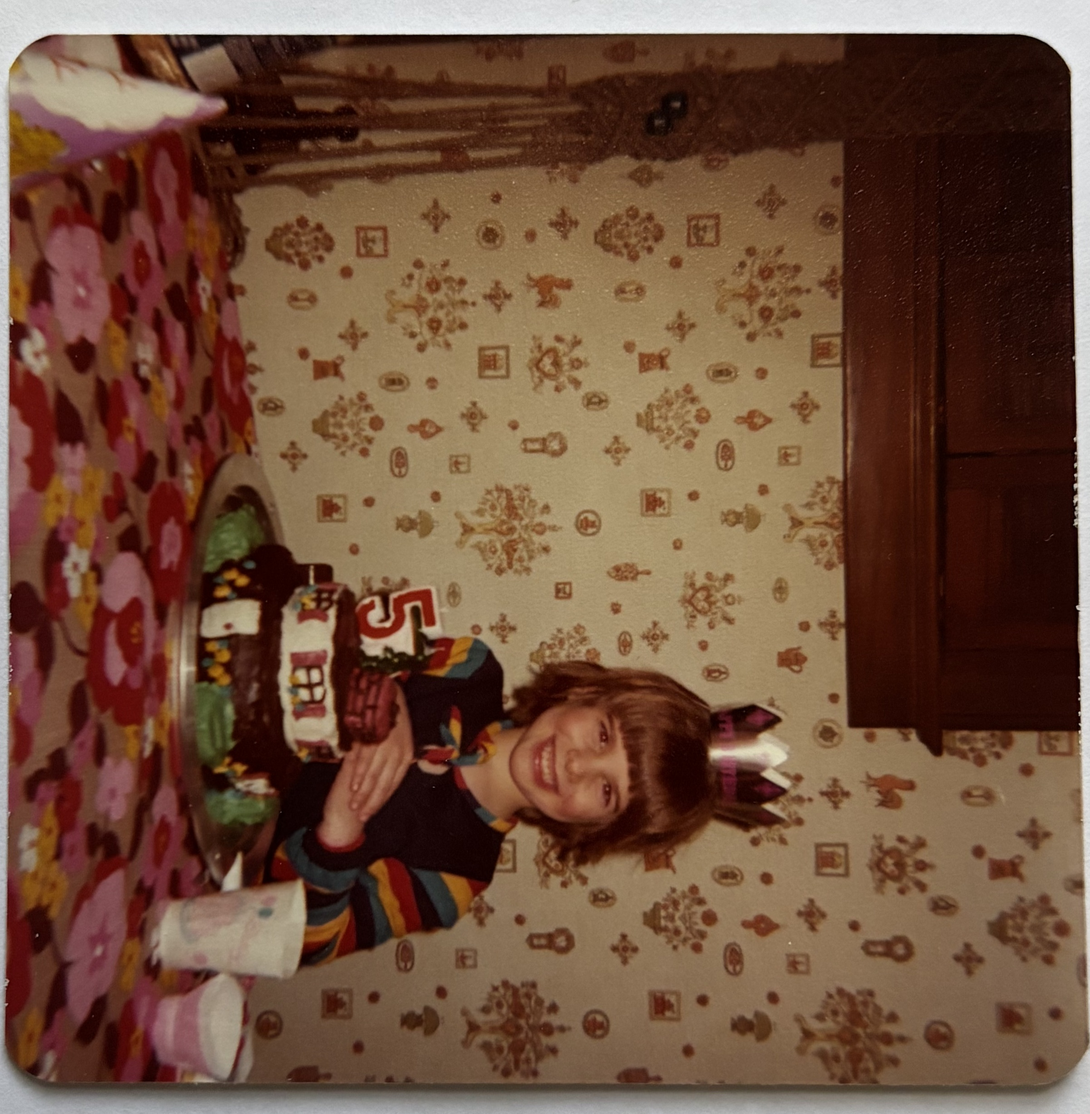
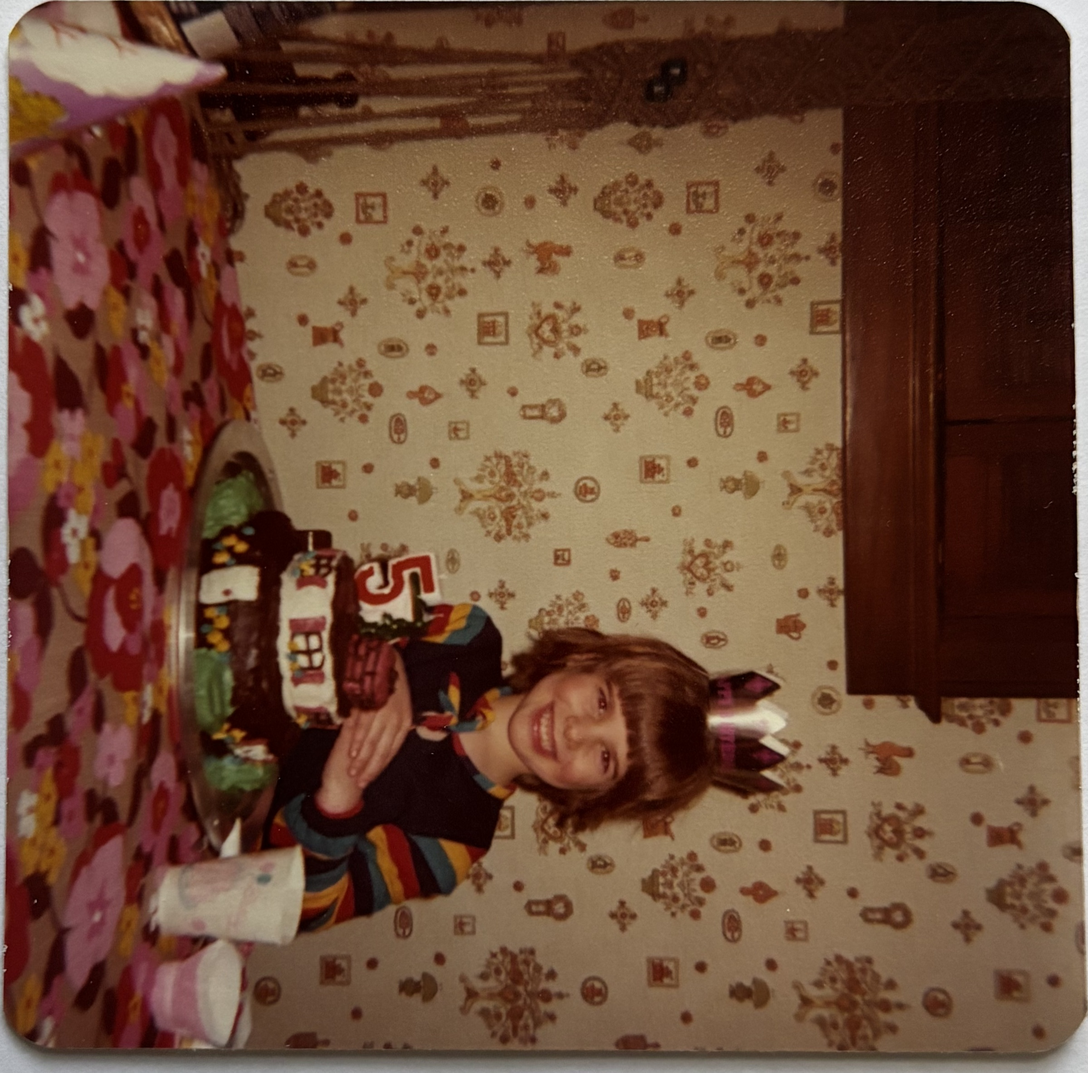
asdf

diff --git a/process.py b/process.py
@@ -11,9 +11,9 @@ def get_background_color(image, sample_size=10):
     h, w = image.shape[:2]
     patches = [
         image[0:sample_size, 0:sample_size],
-        image[0:sample_size, w-sample_size:w],
-        image[h-sample_size:h, 0:sample_size],
-        image[h-sample_size:h, w-sample_size:w]
+        image[0:sample_size, w - sample_size:w],
+        image[h - sample_size:h, 0:sample_size],
+        image[h - sample_size:h, w - sample_size:w]
     ]
     patches = np.concatenate(patches, axis=0)
     mean_color = np.mean(patches, axis=(0, 1))
@@ -23,7 +23,7 @@ def get_background_color(image, sample_size=10):
 def create_mask_from_background(image, bg_color, tolerance=20):
     """
     Creates a binary mask where pixels that differ from the background color
-    by more than the tolerance (across all channels) are considered foreground.
+    (across all channels) by more than 'tolerance' are marked as foreground.
     """
     diff = cv2.absdiff(image, np.uint8(bg_color))
     diff_sum = np.sum(diff, axis=2)
@@ -33,7 +33,7 @@ def create_mask_from_background(image, bg_color, tolerance=20):
 
 def refine_mask(mask, kernel_size=7):
     """
-    Uses morphological operations to close small holes and remove noise.
+    Applies morphological operations to the mask to remove noise and fill gaps.
     """
     kernel = np.ones((kernel_size, kernel_size), np.uint8)
     closed = cv2.morphologyEx(mask, cv2.MORPH_CLOSE, kernel)
@@ -43,22 +43,22 @@ def refine_mask(mask, kernel_size=7):
 
 def order_points(pts):
     """
-    Orders an array of four points in the order:
-    top-left, top-right, bottom-right, bottom-left.
+    Orders four points in the order: top-left, top-right, bottom-right, bottom-left.
     """
     rect = np.zeros((4, 2), dtype="float32")
     s = pts.sum(axis=1)
-    rect[0] = pts[np.argmin(s)]
-    rect[2] = pts[np.argmax(s)]
+    rect[0] = pts[np.argmin(s)]       # top-left
+    rect[2] = pts[np.argmax(s)]       # bottom-right
     diff = np.diff(pts, axis=1)
-    rect[1] = pts[np.argmin(diff)]
-    rect[3] = pts[np.argmax(diff)]
+    rect[1] = pts[np.argmin(diff)]    # top-right
+    rect[3] = pts[np.argmax(diff)]    # bottom-left
     return rect
 
 
 def four_point_transform(image, pts):
     """
-    Warps the image so that the region defined by pts becomes a top-down view.
+    Performs a perspective transform to obtain a top-down view of the region
+    defined by pts.
     """
     rect = order_points(pts)
     (tl, tr, br, bl) = rect
@@ -85,17 +85,15 @@ def four_point_transform(image, pts):
     return warped
 
 
-def extract_photo(image, mask):
+def extract_photo(image, refined_mask):
     """
-    Finds contours in the mask, selects the largest one, and uses a rotated
-    rectangle (minAreaRect) to approximate its boundary.
-    Returns the ordered 4 points of the rectangle and all detected contours.
+    Finds the largest contour in the refined mask and approximates its boundary
+    with a rotated rectangle. Returns the four ordered corner points.
     """
     contours, _ = cv2.findContours(
-        mask, cv2.RETR_EXTERNAL, cv2.CHAIN_APPROX_SIMPLE)
+        refined_mask, cv2.RETR_EXTERNAL, cv2.CHAIN_APPROX_SIMPLE)
     if not contours:
         return None, None
-    # Choose the largest contour (by area)
     largest = max(contours, key=cv2.contourArea)
     rect = cv2.minAreaRect(largest)
     box = cv2.boxPoints(rect)
@@ -106,55 +104,64 @@ def extract_photo(image, mask):
 
 def flood_fill_blackout(image, loDiff=(30, 30, 30), upDiff=(30, 30, 30)):
     """
-    Performs flood fill from each of the four corners on the given image.
-    Regions connected to the image border that are within the specified
-    difference range are filled with black.
-
-    Returns the image with background regions blacked out.
+    Performs flood fill from the four corners to black out regions that are similar
+    to the background.
     """
     filled = image.copy()
     h, w = filled.shape[:2]
-    # OpenCV's floodFill requires a mask 2 pixels larger than the image.
     mask = np.zeros((h+2, w+2), np.uint8)
-    # Define seed points: the four corners.
-    seed_points = [(0, 0), (w-1, 0), (0, h-1), (w-1, h-1)]
+    seed_points = [(0, 0), (w - 1, 0), (0, h - 1), (w - 1, h - 1)]
     for seed in seed_points:
         cv2.floodFill(filled, mask, seed, (0, 0, 0), loDiff,
                       upDiff, flags=cv2.FLOODFILL_FIXED_RANGE)
     return filled
 
 
-def refine_extraction(extracted):
+def refine_extraction_by_border_scan(img, std_threshold=10):
     """
-    Refines the extracted image by thresholding and using morphological erosion to
-    remove soft shadow borders. Then finds the largest contour and crops to its bounding box.
+    Starting from each edge of the image, scans row-by-row (or column-by-column)
+    until the pixel intensity standard deviation exceeds std_threshold, indicating
+    the start of photo content. Crops the image to the detected bounds.
     """
-    # Convert to grayscale.
-    gray = cv2.cvtColor(extracted, cv2.COLOR_BGR2GRAY)
-    # Use Otsu thresholding to separate foreground from shadows.
-    _, thresh = cv2.threshold(
-        gray, 0, 255, cv2.THRESH_BINARY + cv2.THRESH_OTSU)
-    # Erode the threshold mask to remove soft edges.
-    kernel = cv2.getStructuringElement(cv2.MORPH_RECT, (5, 5))
-    eroded = cv2.erode(thresh, kernel, iterations=1)
+    gray = cv2.cvtColor(img, cv2.COLOR_BGR2GRAY)
+    h, w = gray.shape
 
-    # Find contours in the eroded image.
-    contours, _ = cv2.findContours(
-        eroded, cv2.RETR_EXTERNAL, cv2.CHAIN_APPROX_SIMPLE)
-    if not contours:
-        return extracted  # Fallback: return original extraction.
+    # Scan from top.
+    top = 0
+    for i in range(h):
+        if np.std(gray[i, :]) > std_threshold:
+            top = i
+            break
 
-    # Assume the largest contour is the photo.
-    largest = max(contours, key=cv2.contourArea)
-    x, y, w, h = cv2.boundingRect(largest)
+    # Scan from bottom.
+    bottom = h - 1
+    for i in range(h - 1, -1, -1):
+        if np.std(gray[i, :]) > std_threshold:
+            bottom = i
+            break
 
-    # Crop the extracted image using the bounding box.
-    refined = extracted[y:y+h, x:x+w]
+    # Scan from left.
+    left = 0
+    for j in range(w):
+        if np.std(gray[:, j]) > std_threshold:
+            left = j
+            break
+
+    # Scan from right.
+    right = w - 1
+    for j in range(w - 1, -1, -1):
+        if np.std(gray[:, j]) > std_threshold:
+            right = j
+            break
+
+    if top >= bottom or left >= right:
+        return img  # Return original if scanning fails.
+    refined = img[top:bottom+1, left:right+1]
     return refined
 
 
 def main():
-    # Get the image file from command-line or use a default.
+    # Get image path from command-line or default to 'sample.jpg'.
     if len(sys.argv) > 1:
         image_path = sys.argv[1]
     else:
@@ -165,41 +172,38 @@ def main():
         print(f"Error: Could not load image from '{image_path}'")
         sys.exit(1)
 
-    # Determine the background color from the corners.
-    bg_color = get_background_color(image)
-    # Create a mask from the background.
-    mask = create_mask_from_background(image, bg_color, tolerance=100)
+    # --- Background Mask Detection ---
+    bg_color = get_background_color(image, sample_size=10)
+    mask = create_mask_from_background(image, bg_color, tolerance=150)
     refined_mask = refine_mask(mask, kernel_size=7)
+    cv2.imwrite("refined_mask.jpg", refined_mask)
 
-    # Extract the photo boundary using the refined mask.
+    # --- Extract Photo Using the Mask ---
     box, contours = extract_photo(image, refined_mask)
     if box is None:
         print("No photo detected.")
         sys.exit(1)
 
-    # Apply perspective transform to extract the photo.
     extracted = four_point_transform(image, box)
-
-    # Use flood fill to black out background areas on the extracted image.
-    extracted_black = flood_fill_blackout(
-        extracted, loDiff=(30, 30, 30), upDiff=(30, 30, 30))
-
-    # Now refine the extraction to tighten up the edges.
-    refined_extraction = refine_extraction(extracted_black)
-
-    # Draw all detected contours (blue) and the chosen boundary (green) on a copy.
-    contours_drawn = image.copy()
-    cv2.drawContours(contours_drawn, contours, -1, (255, 0, 0), 2)
-    cv2.polylines(contours_drawn, [box.astype(int)], True, (0, 255, 0), 3)
-
-    # Save the outputs.
-    cv2.imwrite("refined_mask.jpg", refined_mask)
-    cv2.imwrite("detected_contours.jpg", contours_drawn)
     cv2.imwrite("extracted_photo.jpg", extracted)
-    cv2.imwrite("extracted_photo_black.jpg", extracted_black)
-    cv2.imwrite("extracted_photo_refined.jpg", refined_extraction)
 
-    print("Saved 'refined_mask.jpg', 'detected_contours.jpg', 'extracted_photo.jpg', and 'extracted_photo_black.jpg'.")
+    # Now scan inward to detect where the photo content begins.
+    refined = refine_extraction_by_border_scan(extracted, std_threshold=10)
+    cv2.imwrite("extracted_refined.jpg", refined)
+
+    # --- Visualization: Draw Detected Contours ---
+    drawn = image.copy()
+    cv2.drawContours(drawn, contours, -1, (255, 0, 0), 2)
+    cv2.polylines(drawn, [box.astype(int)], True, (0, 255, 0), 3)
+    cv2.imwrite("detected_contours.jpg", drawn)
+
+    print("Saved output images:")
+    print("  refined_mask.jpg")
+    print("  extracted_photo.jpg")
+    print("  extracted_photo_black.jpg")
+    print("  extracted_padded.jpg")
+    print("  extracted_refined.jpg")
+    print("  detected_contours.jpg")
 
 
 if __name__ == "__main__":
